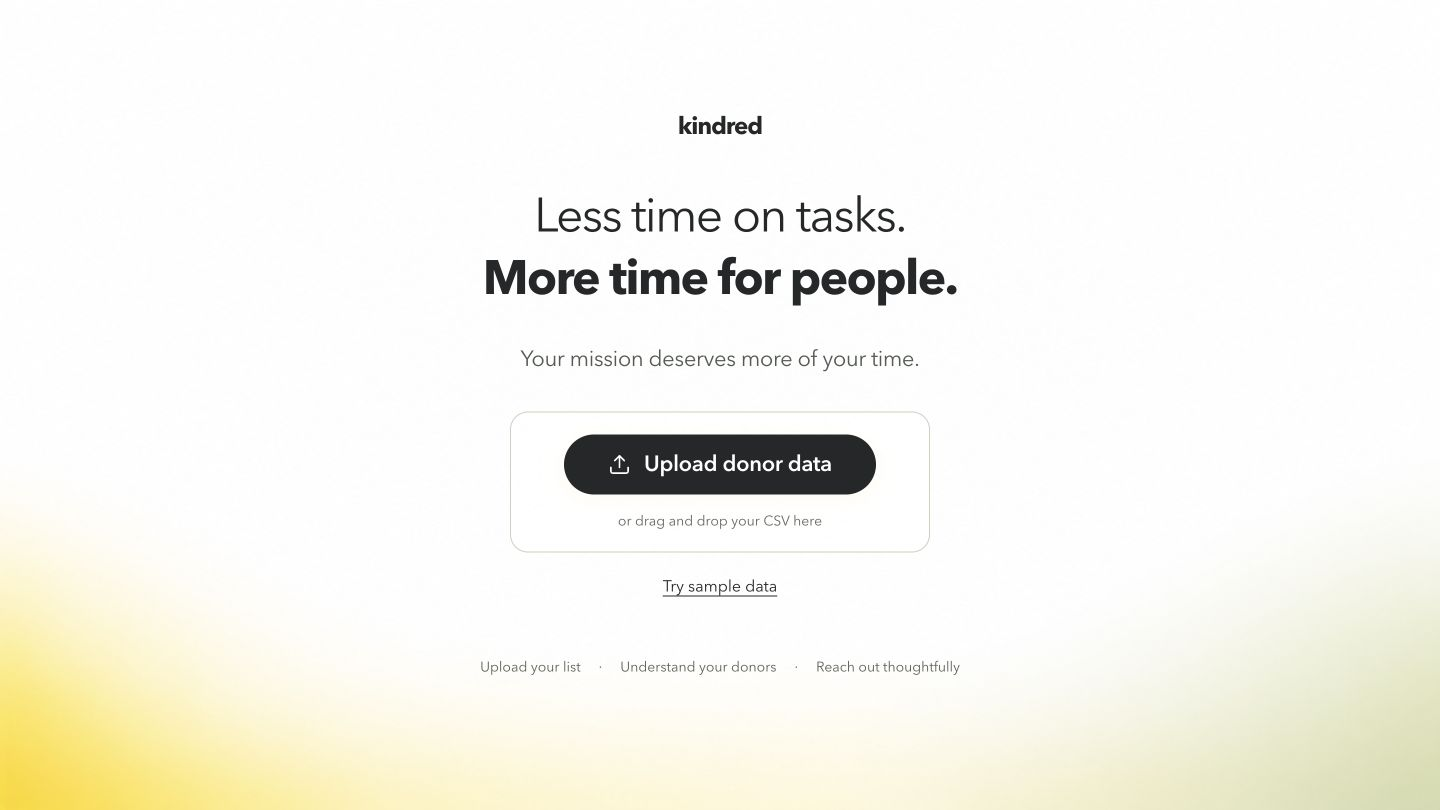
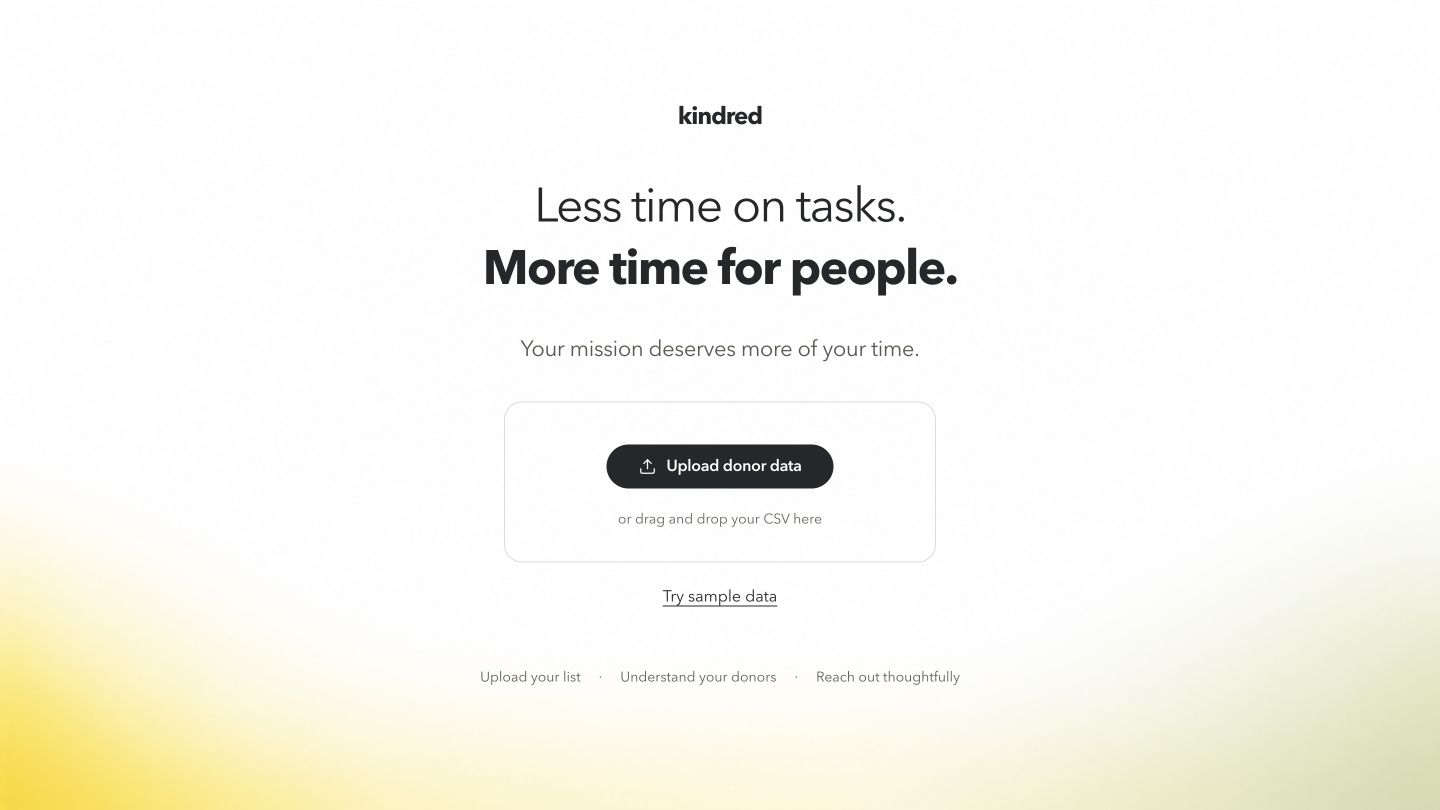
Refine upload area to match selected still

diff --git a/web/src/components/atomic-crm/landing/kindred-landing.css b/web/src/components/atomic-crm/landing/kindred-landing.css
@@ -61,12 +61,12 @@
 }
 
 .kindred-dropzone {
-  inline-size: min(100%, 420px);
+  inline-size: min(100%, 432px);
   margin-block-start: 36px;
-  padding: 22px 24px 20px;
-  border: 1px solid #cbd0bf;
+  padding: 42px 24px 32px;
+  border: 1px solid rgb(105 123 85 / 25%);
   border-radius: 18px;
-  background: rgb(255 255 255 / 60%);
+  background: transparent;
   transition:
     border-color 150ms ease,
     background-color 150ms ease;
@@ -81,10 +81,20 @@
 .kindred-dropzone .kindred-upload {
   margin-block-start: 0;
   max-inline-size: 100%;
+  min-block-size: 44px;
+  padding-inline: 32px;
+  gap: 10px;
+  font-size: 16px;
+  box-shadow: none;
+}
+
+.kindred-dropzone .kindred-upload svg {
+  inline-size: 18px;
+  block-size: 18px;
 }
 
 .kindred-dropzone .kindred-file-hint {
-  margin-block-start: 16px;
+  margin-block-start: 20px;
   font-size: 14px;
 }
 
@@ -230,7 +240,7 @@
 
   .kindred-dropzone {
     margin-block-start: 30px;
-    padding: 20px 16px 18px;
+    padding: 30px 16px 26px;
   }
 
   .kindred-dropzone .kindred-file-hint {

diff --git a/docs/design/landing/design-qa.md b/docs/design/landing/design-qa.md
@@ -4,9 +4,10 @@ final result: passed
 
 ## Scope and visual truth
 
-This report covers the new landing entry in the primary React app (`web/`), not the separate static Kindred or outreach-inbox prototypes. The existing repository-root QA report for the older standalone prototype is unchanged.
+This report covers the new landing entry in the primary React app (`web/`), not the separate static Kindred or outreach-inbox prototypes. The older standalone inbox QA report is archived separately at `docs/design/outreach-inbox-qa.md`. The repository-root report points to this current landing review.
 
-- Approved reference: `approved-reference.png`, 1672 × 941 pixels. White canvas, charcoal text/button, yellow/olive corner glows, very faded button backlight, and the user's final headline/subheadline. The subsequent explicit request adds a thin framed CSV drop area around the upload controls.
+- Component reference: `approved-upload-reference.png`, 1536 × 1024 pixels. The user selected this refined still: smaller charcoal button, slightly larger rounded frame, and lower-opacity outline. `upload-comparison.png` aligns its upload region with the live implementation at the same 432px frame width.
+- Approved page composition reference: `approved-reference.png`, 1672 × 941 pixels. White canvas, charcoal text/button, yellow/olive corner glows, very faded button backlight, and the user's final headline/subheadline. The subsequent explicit request adds a thin framed CSV drop area around the upload controls.
 - Implementation: `http://127.0.0.1:5174/`, using the existing `dev:demo` runtime.
 - Desktop: `desktop.png`, 1440 × 810 CSS/pixel viewport, device pixel ratio 1.
 - Phone: `mobile.png`, 390 × 844 CSS/pixel viewport, device pixel ratio 1.
@@ -20,13 +21,14 @@ This report covers the new landing entry in the primary React app (`web/`), not 
 1. Initial comparison found supporting text and CTA too small relative to the approved still. Increased the supporting line from 19px to 22px; CTA label from 18px to 22px, its height from 56px to 60px, and horizontal padding from 34px to 44px. Helper/sample text increased from 14px to 16px.
 2. Shifted the centered content group upward 10px after the scale adjustment. The final paired full-view and focused comparisons retain generous section spacing and all information within the viewport.
 3. Follow-up: added the requested 1px olive frame with an 18px radius around the upload controls, plus a drag-active treatment through the existing react-dropzone library. Rechecked all four viewports; the layout still fits without scrolling. This frame intentionally extends the supplied still in response to the user's request.
-4. Final comparison: no actionable P0/P1/P2 findings. The actual font glyphs and separately generated ambient backdrop vary slightly from the raster reference (P3).
+4. Selected-still follow-up: expanded frame width from 420px to 432px, increased inner whitespace, reduced its border to 25% olive opacity, removed the frame fill and button shadow, and made the centered CTA 44px high with 16px text and an 18px upload icon. The desktop frame measures 432 × 161px and the button approximately 227 × 44px. Phone frame padding adapts while the button keeps a 44px touch target.
+5. Final comparison: no actionable P0/P1/P2 findings. The actual font glyphs and separately generated ambient backdrop vary slightly from the raster reference (P3).
 
 ## Required fidelity surfaces
 
 - **Typography:** Avenir Next/Avenir with the app's locally bundled Inter fallback. Regular first line, semibold second line, correctly ordered and spelled copy, readable secondary controls. The headline remains two lines on desktop and tested phones. Text remains selectable.
 - **Spacing/layout:** one centered content group on a full white canvas, with a small wordmark, headline, supporting line, one primary action, helper, sample link and quiet process line. No app rail or dashboard is shown on the landing page. Desktop 1440 × 810 and 1280 × 720, and phones 390 × 844 and 375 × 667, all have document dimensions equal to viewport dimensions: no scrolling or clipped content at those sizes. Smaller or text-zoomed views can scroll rather than losing content.
-- **Colors/tokens:** white surface, charcoal typography/CTA, muted olive secondary text, generated yellow/olive corner light. The button backlight is deliberately a faint 8% yellow shadow. Focus outlines use a visible olive tone. The existing workspace theme is not restyled.
+- **Colors/tokens:** white surface, charcoal typography/CTA, muted olive secondary text, generated yellow/olive corner light. The landing upload button is crisp with no shadow; the frame is transparent with a 25% olive hairline. Focus/drag states retain a stronger border. Focus outlines use a visible olive tone. The existing workspace theme is not restyled.
 - **Image/assets:** the backdrop was generated with the built-in image tool from the approved reference; it contains no text, UI, shapes or center halo. The upload icon comes from the app's existing Lucide library. The layout does not replace imagery with CSS-drawn blobs or gradients.
 - **Copy/content:** exact user-approved headline “Less time on tasks. More time for people.” and subheadline “Your mission deserves more of your time.” Primary action remains “Upload donor data”; drop hint is “or drag and drop your CSV here”; sample action is “Try sample data”.
 
@@ -41,6 +43,13 @@ This report covers the new landing entry in the primary React app (`web/`), not 
 - Local-mode file chooser was exercised with a synthetic `donors.csv`: selection opens the dialog, shows the filename, and enables import without requiring the same file again. A `.txt` selection is rejected and leaves import disabled. The shared react-dropzone acceptance callback handles both drops and picker selection; OS-level file dragging was not separately automated.
 - Local-mode CSV input has an associated label and required-file validation; its submit/pending/error/success states use the existing typed `uploadFiles` client. A live ingest service was not available in this check, so a live local-file import is not claimed.
 - Browser warning/error logs checked: no entries reported during the verified snapshot flow.
+
+## Latest refinement verification
+
+- Re-captured `desktop.png`, `mobile.png`, and `upload-dialog.png`; refreshed full-page comparisons and added the normalized, readable `upload-comparison.png`. The component-only still has no full-page headline/footer; those remain grounded in the original approved page image.
+- Initial comparison passed: no actionable P0/P1/P2 drift. The implementation frame is about 5px taller at normalized scale, with small font-rasterization and outline-color differences (P3).
+- Rechecked no scrolling at 1440 × 810, 1280 × 720, 390 × 844, and 375 × 667. Snapshot dialog opens, Escape dismisses it and restores button focus, and sample-data entry reaches the existing workspace. Browser error/warning log is empty.
+- Rebuilt the production demo including TypeScript successfully. Upload parsing/ingestion behavior was not modified; previous provider/file-picker checks below remain historical evidence, not newly rerun tests.
 
 ## Automated checks
 

diff --git a/design-qa.md b/design-qa.md
@@ -1,33 +1,7 @@
-# Kindred outreach inbox design QA
+# Current Kindred landing design QA
 
-final result: blocked
+final result: passed
 
-- Source visual truth: supplied native Library image `libfile_d9d4d3a717bc8191b7f650fe3af97fc0`, “Free UI UX Web in Finland.jpg”; 736×552 pixels. Inspected using Library and local image viewer.
-- Intended implementation: `web/outreach-inbox/`; standalone desktop outreach inbox with responsive single-panel navigation below 760 CSS px.
-- Intended desktop viewport: 1440×1000 CSS px; mobile: 390×844 CSS px. No browser-rendered implementation capture was obtained, so implementation density/pixel dimensions and normalization cannot be reported.
-- Browser evidence: cloud tab 7 at `http://terminal.local:4173/` displayed “upstream connect error or disconnect/reset before headers. reset reason: connection termination.” The preview server returned HTTP 200 from inside its own execution session. That verifies startup only.
-- State: implementation could not be opened through the cloud browser; no same-state or side-by-side comparison exists. The error page was inspected visually. It is not an application screenshot.
-- Primary interactions: covered by local DOM integration tests; actual cloud-browser interaction testing remains blocked.
-- Console: extension metadata errors appeared on the relay error page. App console health is unknown and no zero-error claim is made.
+The current landing implementation has passed visual and responsive review against the approved page and refined upload still. See [full QA report](docs/design/landing/design-qa.md) for references, screenshot dimensions, normalized comparison evidence, interactions, findings and checks.
 
-## Findings
-
-- [P1] Rendered implementation evidence unavailable. The preview relay prevents browser access, so no visual handoff or fidelity pass is claimed. Fix: open the app from a working local browser on the developer’s machine or restore the cloud preview route, then capture and test the complete flow.
-- Fonts and typography: Manrope is bundled locally; hierarchy is specified in CSS. Wrapping, actual optical sizes and readability have not been visually verified.
-- Spacing/layout rhythm: rounded cream workspace, white inbox/detail panels, low-density donor rows, and a single-panel mobile state are implemented. Layout, overflow and touch-size inspection remain unverified.
-- Colors/tokens: warm beige/gray, charcoal controls and muted yellow attention treatments adapt the reference. Contrast measurements and rendered comparison remain pending.
-- Image quality/assets: standard Phosphor icons are used; identity initials represent fictional donor records. Decorative health charts and photos were intentionally omitted because the user requested an inbox rather than a clone. No nonprofit imagery was generated.
-- Copy/content: donors, gifts, notes and transcript are fictional; import, draft approval and call simulation disclose their behavior. Actual rendered truncation and readability remain pending.
-
-## Comparison history
-
-1. Source image inspected. Local typecheck, tests and build executed.
-2. Cloud preview failed despite confirming the local server responds in its own session. There has been no valid visual comparison and therefore no passed iteration.
-
-## Implementation checklist
-
-- Open the standalone app in a working browser; capture desktop and mobile at the stated viewports.
-- Combine source and implementation captures for full-view comparison; inspect inbox rows, donor briefing and import modal at a readable scale.
-- Walk import/mapping, keep separate, merge/undo, gift provenance, search/filter, draft approval, snooze/restore, call join/mute/leave/outcome and reset.
-- Check browser console, layout overflow, keyboard dialog focus, touch controls, actual CSV file selection, and contrast.
-- Fix actionable P0/P1/P2 findings, recapture, then change this result to passed only when evidence supports it.
+The older standalone outreach-inbox review is preserved at [outreach inbox QA](docs/design/outreach-inbox-qa.md); its historical verification blocker applies to that separate prototype.

diff --git a/docs/design/outreach-inbox-qa.md b/docs/design/outreach-inbox-qa.md
@@ -1,0 +1,33 @@
+# Kindred outreach inbox design QA
+
+final result: blocked
+
+- Source visual truth: supplied native Library image `libfile_d9d4d3a717bc8191b7f650fe3af97fc0`, “Free UI UX Web in Finland.jpg”; 736×552 pixels. Inspected using Library and local image viewer.
+- Intended implementation: `web/outreach-inbox/`; standalone desktop outreach inbox with responsive single-panel navigation below 760 CSS px.
+- Intended desktop viewport: 1440×1000 CSS px; mobile: 390×844 CSS px. No browser-rendered implementation capture was obtained, so implementation density/pixel dimensions and normalization cannot be reported.
+- Browser evidence: cloud tab 7 at `http://terminal.local:4173/` displayed “upstream connect error or disconnect/reset before headers. reset reason: connection termination.” The preview server returned HTTP 200 from inside its own execution session. That verifies startup only.
+- State: implementation could not be opened through the cloud browser; no same-state or side-by-side comparison exists. The error page was inspected visually. It is not an application screenshot.
+- Primary interactions: covered by local DOM integration tests; actual cloud-browser interaction testing remains blocked.
+- Console: extension metadata errors appeared on the relay error page. App console health is unknown and no zero-error claim is made.
+
+## Findings
+
+- [P1] Rendered implementation evidence unavailable. The preview relay prevents browser access, so no visual handoff or fidelity pass is claimed. Fix: open the app from a working local browser on the developer’s machine or restore the cloud preview route, then capture and test the complete flow.
+- Fonts and typography: Manrope is bundled locally; hierarchy is specified in CSS. Wrapping, actual optical sizes and readability have not been visually verified.
+- Spacing/layout rhythm: rounded cream workspace, white inbox/detail panels, low-density donor rows, and a single-panel mobile state are implemented. Layout, overflow and touch-size inspection remain unverified.
+- Colors/tokens: warm beige/gray, charcoal controls and muted yellow attention treatments adapt the reference. Contrast measurements and rendered comparison remain pending.
+- Image quality/assets: standard Phosphor icons are used; identity initials represent fictional donor records. Decorative health charts and photos were intentionally omitted because the user requested an inbox rather than a clone. No nonprofit imagery was generated.
+- Copy/content: donors, gifts, notes and transcript are fictional; import, draft approval and call simulation disclose their behavior. Actual rendered truncation and readability remain pending.
+
+## Comparison history
+
+1. Source image inspected. Local typecheck, tests and build executed.
+2. Cloud preview failed despite confirming the local server responds in its own session. There has been no valid visual comparison and therefore no passed iteration.
+
+## Implementation checklist
+
+- Open the standalone app in a working browser; capture desktop and mobile at the stated viewports.
+- Combine source and implementation captures for full-view comparison; inspect inbox rows, donor briefing and import modal at a readable scale.
+- Walk import/mapping, keep separate, merge/undo, gift provenance, search/filter, draft approval, snooze/restore, call join/mute/leave/outcome and reset.
+- Check browser console, layout overflow, keyboard dialog focus, touch controls, actual CSV file selection, and contrast.
+- Fix actionable P0/P1/P2 findings, recapture, then change this result to passed only when evidence supports it.

diff --git a/docs/design/landing/README.md b/docs/design/landing/README.md
@@ -6,9 +6,9 @@ The primary React app now opens on the approved Kindred landing page at its bare
 
 **Supporting line:** Your mission deserves more of your time.
 
-The layout centers all information in one screen at the checked desktop and phone sizes. It uses white, charcoal, yellow and muted olive, with a very faded button backlight. Both app entry points use the shared `DonorDesk` component, so the normal and Vercel demo builds receive the same design.
+The layout centers all information in one screen at the checked desktop and phone sizes. It uses white, charcoal, yellow and muted olive, with a crisp upload button and a faint outlined drop area. Both app entry points use the shared `DonorDesk` component, so the normal and Vercel demo builds receive the same design.
 
-A thin outlined drop area surrounds the upload button. It accepts one CSV through drag-and-drop or the file chooser, highlights on drag/focus, and shows the selected filename before confirmation. Invalid file types are rejected.
+The selected upload still uses a slightly roomier, 432px-wide drop area with a 25%-opacity hairline, transparent interior, and smaller 44px-high charcoal button. It accepts one CSV through drag-and-drop or the file chooser, highlights on drag/focus, and shows the selected filename before confirmation. Invalid file types are rejected.
 
 The upload dialog uses the existing data-mode boundary. Snapshot builds offer a sample workspace and explain that uploads need the local service. Local builds submit a CSV through the existing `uploadFiles` method and show success/errors; no new backend or ingest behavior is introduced.
 
@@ -16,8 +16,10 @@ The upload dialog uses the existing data-mode boundary. Snapshot builds offer a 
 
 - [Desktop implementation](desktop.png)
 - [Phone implementation](mobile.png)
-- [Approved still](approved-reference.png)
+- [Approved upload refinement](approved-upload-reference.png)
+- [Upload comparison](upload-comparison.png)
+- [Approved page still](approved-reference.png)
 - [Paired comparison](comparison.png)
 - [Design QA and verification](design-qa.md)
 
-The ambient asset in `web/public/landing/ambient.png` was generated using the built-in image tool with the approved still attached. Prompt: create a text-free 1440 × 810 backdrop, true white upper/center, golden-yellow lower-left and muted olive lower-right light; remove all text, wordmark, controls, shapes and the center halo. The subtle CTA backlight is a normal UI shadow.
+The ambient asset in `web/public/landing/ambient.png` was generated using the built-in image tool with the approved still attached. Prompt: create a text-free 1440 × 810 backdrop, true white upper/center, golden-yellow lower-left and muted olive lower-right light; remove all text, wordmark, controls, shapes and the center halo. The refined landing upload button has no backlight or shadow.
